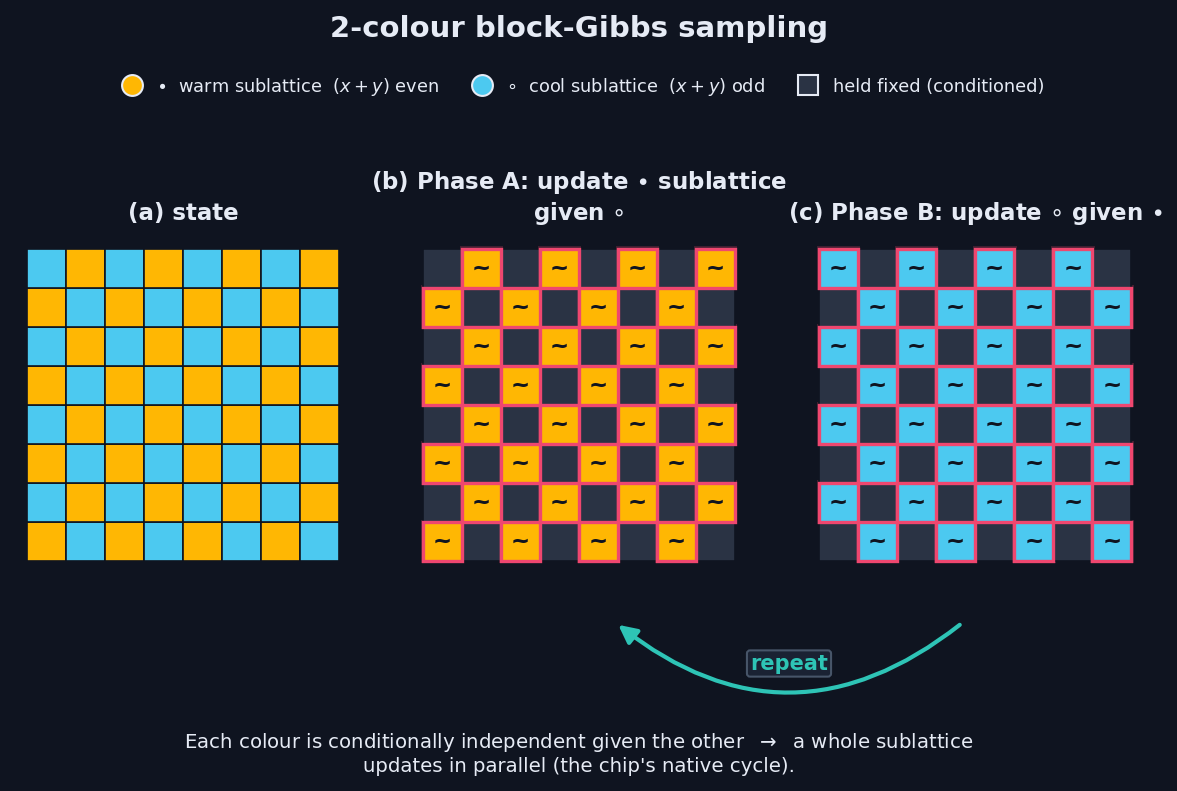
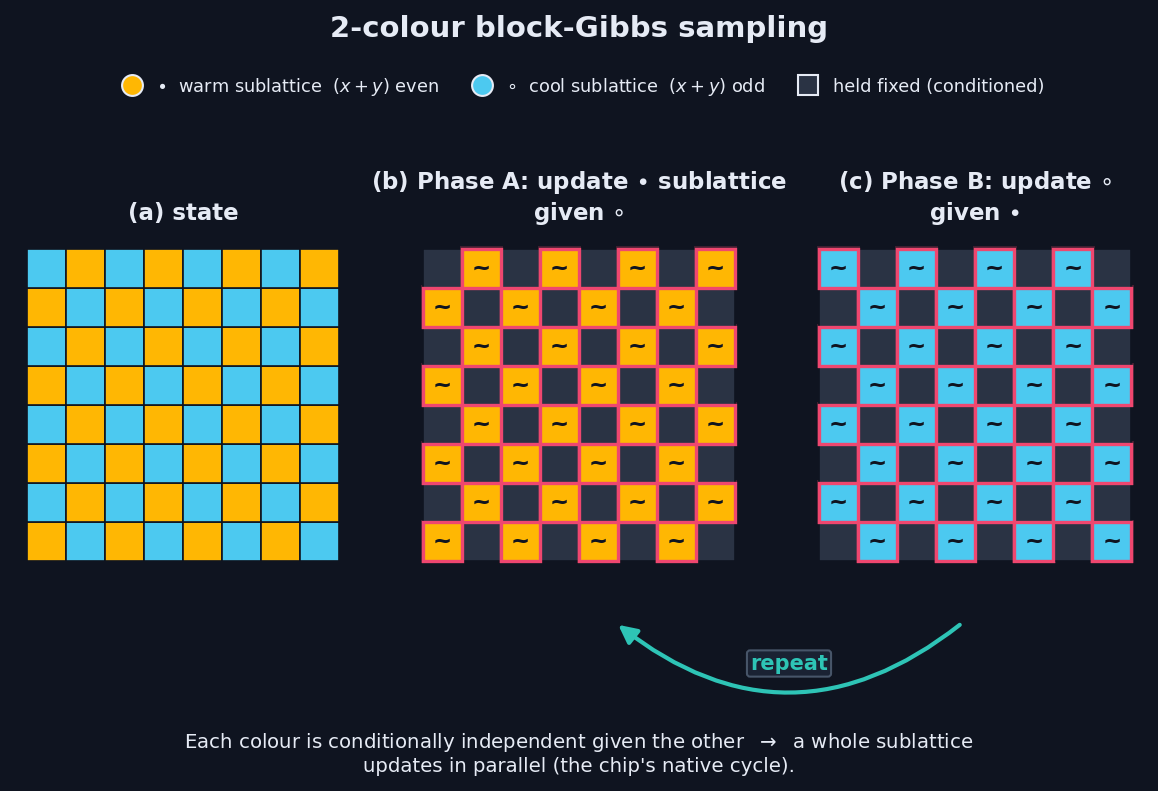
fig 2: wrap panel (c) title to two lines so it no longer clips off the right edge

diff --git a/figures/make_02_block_gibbs.py b/figures/make_02_block_gibbs.py
@@ -108,7 +108,7 @@ def main():
     _, cool_cells = draw_board(axC, "cool")
     mark_sampling(axC, cool_cells)
     axC.set_title("(c) Phase B: update " + r"$\circ$" +
-                  " given " + r"$\bullet$",
+                  "\ngiven " + r"$\bullet$",
                   fontsize=11, fontweight="bold", pad=8)
 
     # legend mapping bullet/circle to colours (figure-level, top)
